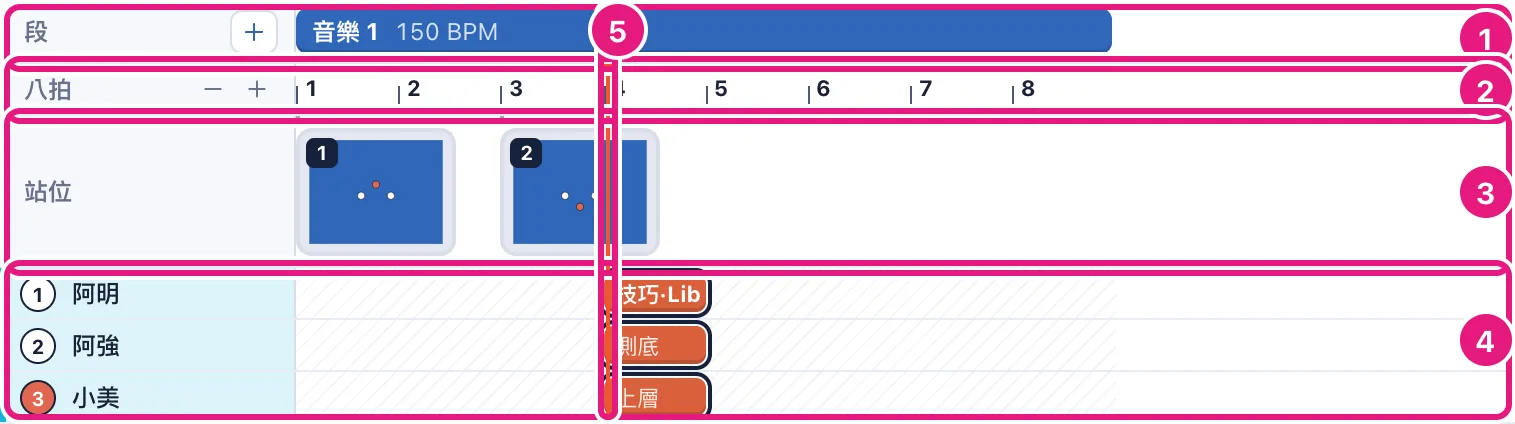
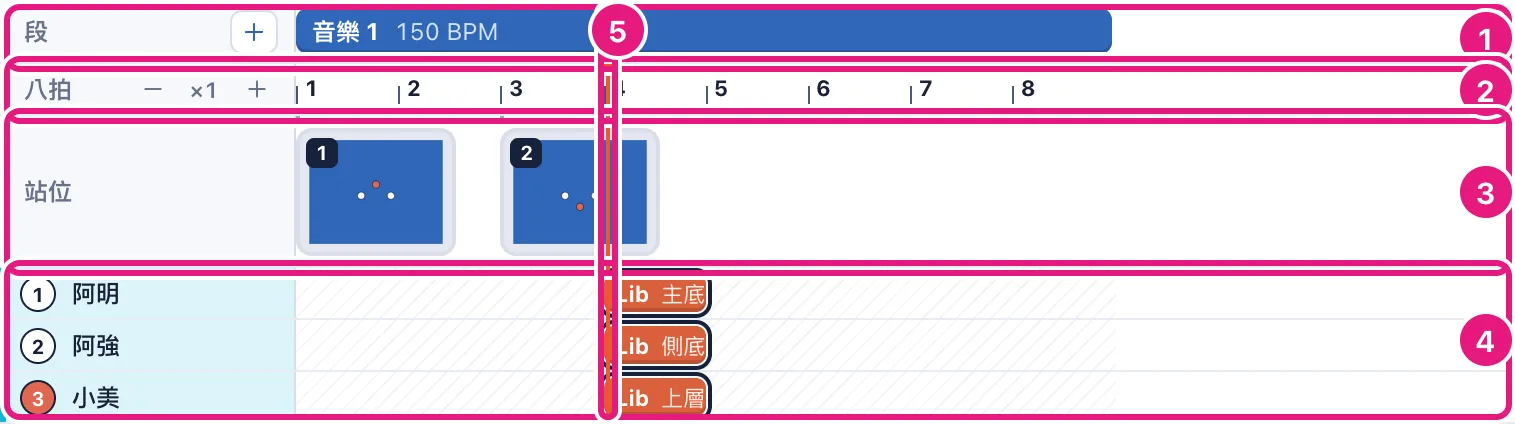
Write the action name on every lane bar, not only the first person's
Before, only the first member's bar said 大類·名稱, so a member far down
the list (e.g. 豹哥, whose 任務角色 happens to be 騰翻) showed no action
name at all. Now every bar starts with the action name, then that
member's 任務角色. The bar color already shows the 大類, so the name
alone is enough; an unnamed action still shows its 大類. The tooltip
keeps the full 大類·名稱.

Updates the 使用說明 wording and retakes the two screenshots that show
the lanes (editor, timeline).

diff --git a/src/routes/guide/+page.svelte b/src/routes/guide/+page.svelte
@@ -218,7 +218,7 @@
 							<tr><td><b>段列</b></td><td>時間軸第一列，每一段是一個長方形。左邊的「＋」加段。</td></tr>
 							<tr><td><b>八拍尺</b></td><td>時間軸第二列，像尺一樣標著八拍的號碼（口號段標秒數）。左邊的「−」「＋」放大、縮小時間軸。</td></tr>
 							<tr><td><b>站位列</b></td><td>時間軸第三列，每張站位一個小圖。</td></tr>
-							<tr><td><b>泳道</b></td><td>時間軸第四列，每個隊員有自己的一條泳道。他參加的動作畫成<b>色條</b>：顏色看大類；動作裡第一個人的色條先寫「大類·名稱」（例如「技巧·Lib」），每條色條再寫那個人的任務角色（色條太短寫不下時，滑鼠移過去就看得到）。沒在動作裡的時間是灰色斜紋。</td></tr>
+							<tr><td><b>泳道</b></td><td>時間軸第四列，每個隊員有自己的一條泳道。他參加的動作畫成<b>色條</b>：顏色看大類；每條色條都寫動作名稱（例如「Lib」，沒取名就寫大類），後面接那個人的任務角色（色條太短寫不下時，滑鼠移過去就看得到）。沒在動作裡的時間是灰色斜紋。</td></tr>
 							<tr><td><b>播放頭</b></td><td>時間軸上那根橘紅色直線，表示「現在」。場地顯示的就是播放頭這一刻大家站在哪。</td></tr>
 							<tr class="group"><td colspan="2">跳出來的視窗</td></tr>
 							<tr><td><b>段設定</b></td><td>點段列上的段跳出來，設定那一段的音樂檔、BPM、第一拍、長度。音樂段的段設定裡有<b>波形</b>：音樂聲音大小的圖，鼓點的地方會突起來。</td></tr>
@@ -677,7 +677,7 @@
 							如果還在播，按播放鍵暫停（已經播完自己停了就不用按）。在八拍尺上點「4」那一格的開頭（目前位置「音樂 1 4-1」）。點右邊欄上面的「動作」分頁，在「選人」那一區按「全隊」。「大類」選「技巧」，「名稱」打「Lib」，「開始」和「長度」不用改。任務角色：阿明選「主底」、阿強選「側底」、小美選「上層」。按「新增動作」。
 						</p>
 						<p class="see">
-							你應該看到：三條泳道在第 4 個八拍都多了一條同色的色條，阿明那條寫「技巧·Lib 主底」，另外兩條寫「側底」「上層」。場地上小美多了黃框，因為播放頭正在這個動作裡，而小美的任務角色是上層。右邊的動作表單變成這個動作的內容。
+							你應該看到：三條泳道在第 4 個八拍都多了一條同色的色條，三條都寫「Lib」，後面接各自的任務角色：阿明那條是「主底」，另外兩條是「側底」「上層」。場地上小美多了黃框，因為播放頭正在這個動作裡，而小美的任務角色是上層。右邊的動作表單變成這個動作的內容。
 						</p>
 						<p class="stuck">卡住了：動作表單下面出現紅字，照紅字的原因改。</p>
 					</li>

diff --git a/src/lib/components/Lanes.svelte b/src/lib/components/Lanes.svelte
@@ -1,5 +1,5 @@
 <script lang="ts">
-	// 泳道：一人一條，照名單順序。動作是色條（顏色照大類，寫那個人的任務角色），
+	// 泳道：一人一條，照名單順序。動作是色條（顏色照大類，每條都寫動作名稱和那個人的任務角色），
 	// 沒在動作裡的時間是灰條紋；播放頭那一拍閒著的人名字變灰、標「閒」。
 	// 拖色條移動、拉右邊改長度：放開時交給流程核心，被擋就還原。點名字選人，Shift＋點多選。
 	import {
@@ -58,6 +58,8 @@
 			return {
 				action,
 				label: actionLabel(action),
+				/** 色條上的字：顏色已經是大類，只寫名稱；沒取名才寫大類。 */
+				name: action.name || actionLabel(action),
 				left: startSec * pxPerSec,
 				width: (endSec - startSec) * pxPerSec
 			};
@@ -134,7 +136,7 @@
 						onclick={() => onselectaction(p.action.id)}
 						onpointerdown={(e) => startDrag(e, p.action.id)}
 					>
-						{#if p.action.members[0].memberId === m.id}<b>{p.label}</b>{/if}
+						<b>{p.name}</b>
 						{#if member.role}<span class="role">{member.role}</span>{/if}
 						<span class="rz" data-resize title="拉這裡改長度"></span>
 					</button>

diff --git a/src/lib/components/Lanes.svelte.test.ts b/src/lib/components/Lanes.svelte.test.ts
@@ -100,6 +100,16 @@ describe('泳道', () => {
 		expect(a.style.background).not.toBe(c.style.background);
 	});
 
+	it('每個人的色條都寫動作名稱，不寫大類（顏色就是大類）；沒取名才寫大類', () => {
+		setup(0);
+		const name = (el: HTMLElement) => el.querySelector('b')?.textContent;
+		// Lib 裡的小A、小B 都寫
+		expect(name(bars(lanes()[0])[0])).toBe('Lib');
+		expect(name(bars(lanes()[1])[0])).toBe('Lib');
+		// 小C 的跳躍沒取名
+		expect(name(bars(lanes()[2])[1])).toBe('跳躍');
+	});
+
 	it('播放頭那一拍沒在動作裡的人名字變灰、標「閒」', () => {
 		setup(0.5);
 		const idle = lanes().map((l) => l.querySelector('.idle-tag') !== null);
